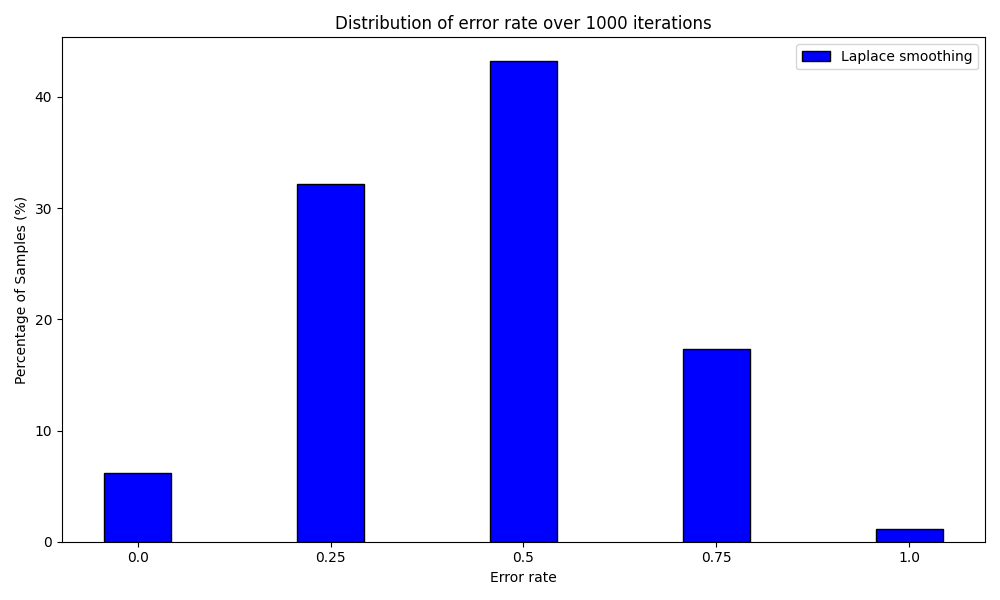
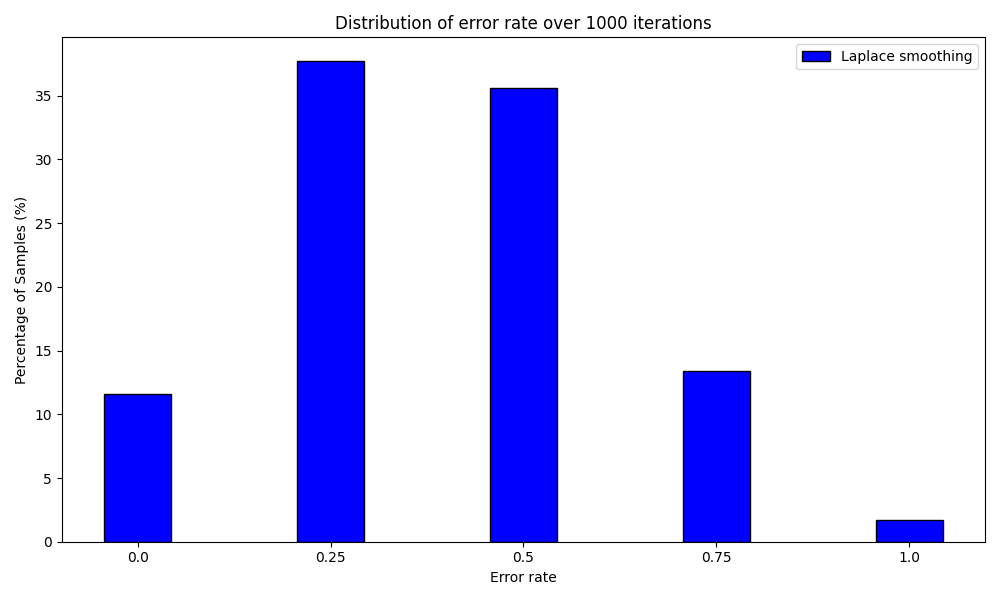
Final version

diff --git a/naiveBayesClassifier.py b/naiveBayesClassifier.py
@@ -11,9 +11,9 @@ def naiveBayesClassifier(trainingSet, testSet):
 
     #Print a priori probability
 
-    print("Training Set a priori probability:")
-    print(priorTraining)
-    print("\n")
+    # print("Training Set a priori probability:")
+    # print(priorTraining)
+    # print("\n")
 
     #Compute likelihood 
 
@@ -21,13 +21,13 @@ def naiveBayesClassifier(trainingSet, testSet):
 
     #Print likelihood
 
-    print("Likelihood:\n")
+    # print("Likelihood:\n")
 
-    for variable, values in likelihood.items():
-        print(f"{variable}:")
-        for value, class_counts in values.items():
-            rounded_class_counts = {k: round(v, 3) for k, v in class_counts.items()}
-            print(f"  {value}: {rounded_class_counts}")
+    # for variable, values in likelihood.items():
+    #     print(f"{variable}:")
+    #     for value, class_counts in values.items():
+    #         rounded_class_counts = {k: round(v, 3) for k, v in class_counts.items()}
+    #         print(f"  {value}: {rounded_class_counts}")
 
 
     #Compute a posteriori probability and predictions
@@ -36,16 +36,16 @@ def naiveBayesClassifier(trainingSet, testSet):
 
     #Print a posteriori probability and predictions
 
-    print("\n")
-    print(f"{'yes':<10}{'no':<10}{'predictions':<15}")
-    print("-" * 35)
+    # print("\n")
+    # print(f"{'yes':<10}{'no':<10}{'predictions':<15}")
+    # print("-" * 35)
     
-    for i in range(len(testSet[next(iter(testSet))])):
-        yes_prob = posterioriTest['yes'][i] if 'yes' in posterioriTest else 0
-        no_prob = posterioriTest['no'][i] if 'no' in posterioriTest else 0
-        prediction = predictions[i] if i < len(predictions) else "N/A"
+    # for i in range(len(testSet[next(iter(testSet))])):
+    #     yes_prob = posterioriTest['yes'][i] if 'yes' in posterioriTest else 0
+    #     no_prob = posterioriTest['no'][i] if 'no' in posterioriTest else 0
+    #     prediction = predictions[i] if i < len(predictions) else "N/A"
 
-        print(f"{yes_prob:<10.4f}{no_prob:<10.4f}{prediction:<15}")
-        print("\n")
+    #     print(f"{yes_prob:<10.4f}{no_prob:<10.4f}{prediction:<15}")
+    #     print("\n")
 
     return posterioriTest, predictions  

diff --git a/naiveBayesClassifierLaplace.py b/naiveBayesClassifierLaplace.py
@@ -21,13 +21,13 @@ def naiveBayesClassifierLaplace(trainingSet, testSet, alpha):
 
     #Print likelihood Laplace
 
-    print("Likelihood Laplace:\n")
+    # print("Likelihood Laplace:\n")
 
-    for variable, values in likelihood.items():
-        print(f"{variable}:")
-        for value, class_counts in values.items():
-            rounded_class_counts = {k: round(v, 3) for k, v in class_counts.items()}
-            print(f"  {value}: {rounded_class_counts}")
+    # for variable, values in likelihood.items():
+    #     print(f"{variable}:")
+    #     for value, class_counts in values.items():
+    #         rounded_class_counts = {k: round(v, 3) for k, v in class_counts.items()}
+    #         print(f"  {value}: {rounded_class_counts}")
 
 
     #Compute a posteriori probability and predictions
@@ -36,16 +36,16 @@ def naiveBayesClassifierLaplace(trainingSet, testSet, alpha):
 
     #Print a posteriori probability and predictions
 
-    print("\n")
-    print(f"{'yes':<10}{'no':<10}{'predictions Laplace':<15}")
-    print("-" * 35)
+    # print("\n")
+    # print(f"{'yes':<10}{'no':<10}{'predictions Laplace':<15}")
+    # print("-" * 35)
     
-    for i in range(len(testSet[next(iter(testSet))])):
-        yes_prob = posterioriTest['yes'][i] if 'yes' in posterioriTest else 0
-        no_prob = posterioriTest['no'][i] if 'no' in posterioriTest else 0
-        prediction = predictions[i] if i < len(predictions) else "N/A"
+    # for i in range(len(testSet[next(iter(testSet))])):
+    #     yes_prob = posterioriTest['yes'][i] if 'yes' in posterioriTest else 0
+    #     no_prob = posterioriTest['no'][i] if 'no' in posterioriTest else 0
+    #     prediction = predictions[i] if i < len(predictions) else "N/A"
 
-        print(f"{yes_prob:<10.4f}{no_prob:<10.4f}{prediction:<15}")
-        print("\n")
+    #     print(f"{yes_prob:<10.4f}{no_prob:<10.4f}{prediction:<15}")
+    #     print("\n")
 
     return posterioriTest, predictions

diff --git a/main.py b/main.py
@@ -5,19 +5,19 @@ from LoadData import loadData
 from printResults import printResults
 
 tsLength = 10
-alpha = 1
+alpha = 0.1
 
 data_dict, trainingSet, testSet= loadData('weatherData.txt',tsLength)  
 
 #Trainingset & testset print
 
-df_trainingSet = pd.DataFrame(trainingSet)
-df_testSet = pd.DataFrame(testSet)
-print("\nTraining Set:\n")
-print(df_trainingSet.to_string(index=False)) 
-print("\nTest Set:\n")
-print(df_testSet.to_string(index=False))
-print("\n")
+# df_trainingSet = pd.DataFrame(trainingSet)
+# df_testSet = pd.DataFrame(testSet)
+# print("\nTraining Set:\n")
+# print(df_trainingSet.to_string(index=False)) 
+# print("\nTest Set:\n")
+# print(df_testSet.to_string(index=False))
+# print("\n")
 
 if len(testSet) == len(trainingSet):
     
